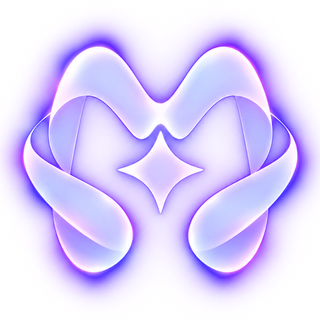
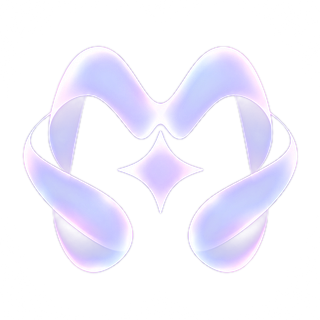
O M oficial: a marca sem o glow violeta que a recortava do fundo
O fundo do produto e um gradiente em movimento, e sobre as faixas claras o
logo aparecia com um contorno roxo, como se estivesse colado por cima. A
tentativa de compensar isso no CSS, com halo e respiracao, so deixou o
problema mais visivel: o roxo nunca esteve no CSS.

Medido, o arquivo tinha um glow violeta desenhado dentro do proprio alfa. Uma
varredura atravessando a borda de uma fita mostra o tamanho da coisa: entre o
fundo e a marca havia catorze pixels de violeta com croma 217 e alfa subindo
de 86 a 253. Nao era nevoa nas beiradas, era contorno opaco pintado por
dentro da silhueta, e por isso tratar por transparencia ou por distancia da
borda passava longe dele.

Mapeando o arquivo por croma, a conclusao: as fitas sao a marca e todo o
resto era glow, inclusive o que preenchia os vaos entre elas. O logo de
verdade e bem menor do que o arquivo fazia parecer.

Entao a silhueta passou a ser definida pela COR e nao pela transparencia:
croma baixo e marca, croma alto e glow, e o alfa segue essa pureza. O que
sobra perde o resto do violeta com a LUMINANCIA PRESERVADA, que foi o detalhe
decisivo: manter o brilho do canal dominante clareava tudo e estourava a
marca, enquanto manter a luminancia mantem a estrutura de claro e escuro, e
as fitas, as dobras e a estrela continuam exatamente onde estavam.

No CSS sobrou so luz de separacao: uma sombra curtissima e fria, na silhueta
porque drop-shadow segue o alfa. Sem cor, sem nuvem, sem animacao. Sairam a
[…]

diff --git a/app/globals.css b/app/globals.css
@@ -665,40 +665,21 @@
   position: absolute; left: 50%; top: 50%; transform: translate(-50%, -50%);
   pointer-events: none; user-select: none;
   /*
-   * O fundo é um gradiente que se move, e o M tinha borda dura contra ele: em
-   * cima das faixas mais claras parecia colado por cima, recortado. O halo não
-   * muda o desenho; ele só dá uma zona de passagem entre a marca e o fundo.
+   * A borda roxa não vinha daqui: vinha do próprio PNG, que trazia um halo
+   * violeta desenhado no alfa. Medido, o miolo da marca é lilás claro com
+   * saturação de 0,22 estável, e a contaminação era uma rampa nos quatro
+   * pixels mais externos, chegando a 0,66 na borda. Sobre as faixas escuras do
+   * gradiente aquilo somia; sobre as claras virava anel. O arquivo foi limpo
+   * por profundidade, então a marca continua a mesma e a borda deixou de ser
+   * violeta.
    *
-   * São três luzes na silhueta, não numa caixa, porque drop-shadow segue o
-   * alfa do PNG. Duas claras, que abrem a marca sobre o fundo escuro, e uma
-   * violeta escura curtíssima, que é o que separa a marca quando o gradiente
-   * clareia: sozinha, a luz branca some justamente aí.
+   * Tirar a cor do halo, sozinho, não bastava: o peso dele vinha do roxo, e
+   * sem roxo a mesma opacidade virava mancha clara em volta da marca. Por isso
+   * o halo do arquivo também perdeu alfa, e a forma voltou a aparecer.
+   *
+   * O que sobra aqui é só luz de separação: uma sombra curtíssima e fria, na
+   * silhueta e não numa caixa, porque drop-shadow segue o alfa. Sem cor, sem
+   * nuvem e sem animação: nada aqui muda com o tempo.
    */
-  filter:
-    drop-shadow(0 0 5px rgba(255, 255, 255, 0.22))
-    drop-shadow(0 0 14px rgba(196, 181, 253, 0.18))
-    drop-shadow(0 1px 2px rgba(49, 26, 94, 0.28));
-  animation: bl-respira 7.5s ease-in-out infinite;
-  will-change: filter;
-}
-
-/* Respiração: a luz varia pouco e devagar, para se notar sem se ver. */
-@keyframes bl-respira {
-  0%, 100% {
-    filter:
-      drop-shadow(0 0 5px rgba(255, 255, 255, 0.22))
-      drop-shadow(0 0 14px rgba(196, 181, 253, 0.18))
-      drop-shadow(0 1px 2px rgba(49, 26, 94, 0.28));
-  }
-  50% {
-    filter:
-      drop-shadow(0 0 8px rgba(255, 255, 255, 0.34))
-      drop-shadow(0 0 22px rgba(196, 181, 253, 0.26))
-      drop-shadow(0 1px 2px rgba(49, 26, 94, 0.28));
-  }
-}
-
-/* Sem animação, o halo fica: ele resolve o recorte, que não é enfeite. */
-@media (prefers-reduced-motion: reduce) {
-  .bl-logo { animation: none; }
+  filter: drop-shadow(0 0 1.2px rgba(246, 248, 255, 0.3));
 }
